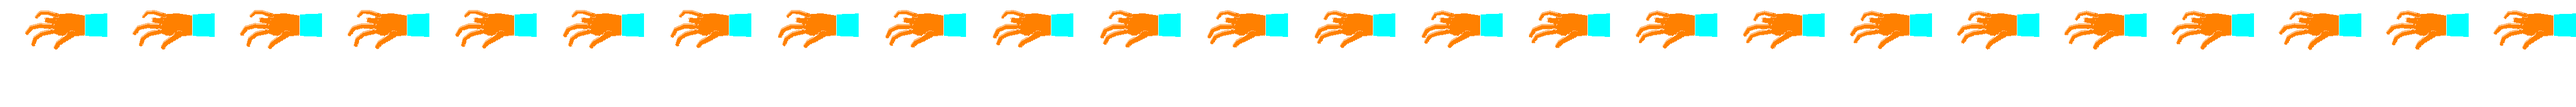
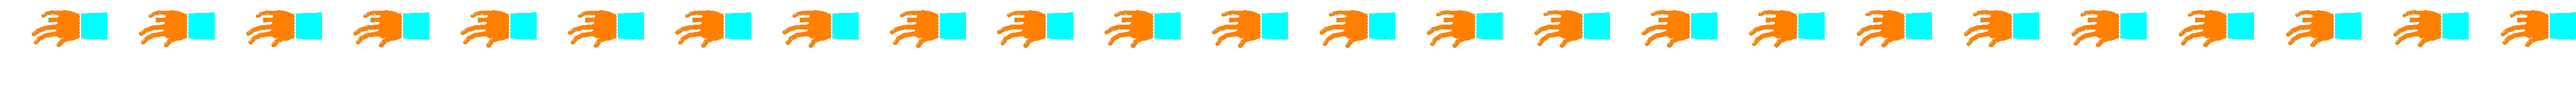
feat(kader): el görseli taslak 3: insan oranlı parmaklar (boğum, kıvrım, tırnak), kesik yüzük parmağı kendi şeridinde net güdük ve açık renk kesit; 3. bölüm kesitleri, başlık ve kart görseli

Changed region(s): [[0.0, 0.09, 1.0, 0.45]]

diff --git a/public/okul-projeleri/kader/index.html b/public/okul-projeleri/kader/index.html
@@ -17,7 +17,7 @@
 <meta name="theme-color" content="#000080">
 <link rel="icon" href="/okul-projeleri/kader/varliklar/el-sprite.png">
 <link rel="preload" href="/okul-projeleri/kader/varliklar/kader-cpc.woff2" as="font" type="font/woff2" crossorigin>
-<link rel="stylesheet" href="/okul-projeleri/kader/varliklar/kader.css?v=2">
+<link rel="stylesheet" href="/okul-projeleri/kader/varliklar/kader.css?v=3">
 </head>
 <body>
 <header class="ust">
@@ -221,7 +221,7 @@
 </section>
 </main>
 
-<script>window.KADER_EL = {"n": 24, "w": 200, "h": 200, "kareler": [{"bas": [104.42, 92.48], "isaret": [62.11, 86.19], "orta": [50.66, 65.13], "serce": [68.37, 34.21]}, {"bas": [104.09, 92.13], "isaret": [62.62, 86.77], "orta": [50.99, 65.76], "serce": [68.22, 33.42]}, {"bas": [103.68, 91.68], "isaret": [62.95, 87.18], "orta": [51.39, 66.55], "serce": [68.13, 32.77]}, {"bas": [103.25, 91.17], "isaret": [63.06, 87.39], "orta": [51.85, 67.45], "serce": [68.1, 32.32]}, {"bas": [102.81, 90.62], "isaret": [62.96, 87.39], "orta": [52.35, 68.39], "serce": [68.12, 32.09]}, {"bas": [102.39, 90.07], "isaret": [62.65, 87.18], "orta": [52.84, 69.31], "serce": [68.19, 32.11]}, {"bas": [102.02, 89.56], "isaret": [62.15, 86.76], "orta": [53.3, 70.15], "serce": [68.3, 32.37]}, {"bas": [101.73, 89.14], "isaret": [61.51, 86.15], "orta": [53.68, 70.86], "serce": [68.46, 32.85]}, {"bas": [101.52, 88.83], "isaret": [60.78, 85.38], "orta": [53.95, 71.39], "serce": [68.66, 33.52]}, {"bas": [101.41, 88.65], "isaret": [60.03, 84.5], "orta": [54.08, 71.72], "serce": [68.89, 34.32]}, {"bas": [101.4, 88.63], "isaret": [59.3, 83.56], "orta": [54.05, 71.82], "serce": [69.16, 35.2]}, {"bas": [101.5, 88.76], "isaret": [58.64, 82.64], "orta": [53.88, 71.69], "serce": [69.45, 36.09]}, {"bas": [101.69, 89.03], "isaret": [58.1, 81.8], "orta": [53.57, 71.33], "serce": [69.73, 36.94]}, {"bas": [101.98, 89.42], "isaret": [57.7, 81.11], "orta": [53.16, 70.77], "serce": [69.98, 37.69]}, {"bas": [102.34, 89.9], "isaret": [57.46, 80.63], "orta": [52.68, 70.02], "serce": [70.17, 38.29]}, {"bas": [102.76, 90.43], "isaret": [57.37, 80.4], "orta": [52.17, 69.15], "serce": [70.27, 38.72]}, {"bas": [103.21, 90.97], "isaret": [57.45, 80.43], "orta": [51.67, 68.2], "serce": [70.28, 38.93]}, {"bas": [103.65, 91.5], "isaret": [57.69, 80.72], "orta": [51.22, 67.25], "serce": [70.2, 38.93]}, {"bas": [104.06, 91.97], "isaret": [58.09, 81.25], "orta": [50.84, 66.35], "serce": [70.02, 38.71]}, {"bas": [104.4, 92.35], "isaret": [58.62, 81.96], "orta": [50.55, 65.59], "serce": [69.77, 38.27]}, {"bas": [104.64, 92.63], "isaret": [59.26, 82.8], "orta": [50.36, 65.01], "serce": [69.47, 37.65]}, {"bas": [104.77, 92.79], "isaret": [59.99, 83.7], "orta": [50.28, 64.65], "serce": [69.15, 36.88]}, {"bas": [104.78, 92.82], "isaret": [60.74, 84.61], "orta": [50.31, 64.56], "serce": [68.85, 36.01]}, {"bas": [104.66, 92.71], "isaret": [61.47, 85.45], "orta": [50.44, 64.72], "serce": [68.58, 35.1]}]};</script>
-<script src="/okul-projeleri/kader/varliklar/kader.js?v=2" defer></script>
+<script>window.KADER_EL = {"n": 24, "w": 200, "h": 200, "kareler": [{"bas": [107.41, 86.39], "isaret": [64.8, 81.65], "orta": [60.71, 65.57], "serce": [78.16, 30.82]}, {"bas": [107.6, 86.58], "isaret": [64.75, 81.41], "orta": [60.45, 65.06], "serce": [78.2, 31.11]}, {"bas": [107.82, 86.81], "isaret": [64.78, 81.3], "orta": [60.18, 64.48], "serce": [78.2, 31.29]}, {"bas": [108.06, 87.06], "isaret": [64.9, 81.31], "orta": [59.93, 63.88], "serce": [78.16, 31.36]}, {"bas": [108.31, 87.33], "isaret": [65.1, 81.46], "orta": [59.72, 63.28], "serce": [78.08, 31.31]}, {"bas": [108.54, 87.58], "isaret": [65.36, 81.72], "orta": [59.56, 62.73], "serce": [77.97, 31.14]}, {"bas": [108.75, 87.81], "isaret": [65.67, 82.08], "orta": [59.45, 62.28], "serce": [77.84, 30.87]}, {"bas": [108.92, 88.01], "isaret": [66.02, 82.52], "orta": [59.4, 61.95], "serce": [77.71, 30.5]}, {"bas": [109.03, 88.15], "isaret": [66.37, 82.99], "orta": [59.41, 61.77], "serce": [77.57, 30.08]}, {"bas": [109.07, 88.23], "isaret": [66.7, 83.47], "orta": [59.48, 61.74], "serce": [77.45, 29.61]}, {"bas": [109.05, 88.24], "isaret": [67.0, 83.94], "orta": [59.6, 61.88], "serce": [77.35, 29.15]}, {"bas": [108.96, 88.19], "isaret": [67.23, 84.35], "orta": [59.78, 62.17], "serce": [77.27, 28.71]}, {"bas": [108.81, 88.07], "isaret": [67.39, 84.68], "orta": [60.0, 62.58], "serce": [77.22, 28.34]}, {"bas": [108.62, 87.9], "isaret": [67.45, 84.92], "orta": [60.25, 63.09], "serce": [77.2, 28.05]}, {"bas": [108.39, 87.68], "isaret": [67.41, 85.05], "orta": [60.51, 63.66], "serce": [77.21, 27.87]}, {"bas": [108.14, 87.42], "isaret": [67.28, 85.05], "orta": [60.77, 64.26], "serce": [77.25, 27.8]}, {"bas": [107.89, 87.15], "isaret": [67.07, 84.92], "orta": [61.0, 64.84], "serce": [77.31, 27.86]}, {"bas": [107.67, 86.89], "isaret": [66.78, 84.68], "orta": [61.2, 65.37], "serce": [77.39, 28.04]}, {"bas": [107.47, 86.64], "isaret": [66.45, 84.33], "orta": [61.33, 65.81], "serce": [77.5, 28.32]}, {"bas": [107.32, 86.44], "isaret": [66.1, 83.91], "orta": [61.4, 66.13], "serce": [77.62, 28.69]}, {"bas": [107.22, 86.29], "isaret": [65.74, 83.42], "orta": [61.4, 66.32], "serce": [77.74, 29.12]}, {"bas": [107.18, 86.21], "isaret": [65.42, 82.92], "orta": [61.32, 66.35], "serce": [77.87, 29.57]}, {"bas": [107.2, 86.2], "isaret": [65.14, 82.43], "orta": [61.17, 66.23], "serce": [77.99, 30.03]}, {"bas": [107.28, 86.26], "isaret": [64.93, 82.0], "orta": [60.96, 65.96], "serce": [78.08, 30.46]}]};</script>
+<script src="/okul-projeleri/kader/varliklar/kader.js?v=3" defer></script>
 </body>
 </html>

diff --git a/public/okul-projeleri/kader/varliklar/kader.css b/public/okul-projeleri/kader/varliklar/kader.css
@@ -104,13 +104,13 @@ canvas.sahne { display: block; position: absolute; right: 0; top: 50%; transform
   background-size: calc(320px * var(--k)) calc(200px * var(--k));
   image-rendering: pixelated; border: 2px solid var(--camgobegi);
 }
-.kesit.parmak .resim { background-position: calc(-180px * var(--k)) calc(-14px * var(--k)); }
-.kesit.ip .resim { background-position: calc(-170px * var(--k)) calc(-96px * var(--k)); }
+.kesit.parmak .resim { background-position: calc(-189px * var(--k)) calc(-9px * var(--k)); }
+.kesit.ip .resim { background-position: calc(-174px * var(--k)) calc(-92px * var(--k)); }
 .kesit .isaret {
   position: absolute; border: 2px solid var(--turuncu); animation: imlec 0.8s steps(1) infinite;
 }
-.kesit.parmak .isaret { left: calc(20 * var(--k) * 1px); top: calc(17 * var(--k) * 1px); width: calc(15 * var(--k) * 1px); height: calc(14 * var(--k) * 1px); }
-.kesit.ip .isaret { left: calc(30 * var(--k) * 1px); top: calc(4 * var(--k) * 1px); width: calc(12 * var(--k) * 1px); height: calc(48 * var(--k) * 1px); border-style: dashed; }
+.kesit.parmak .isaret { left: calc(16 * var(--k) * 1px); top: calc(22 * var(--k) * 1px); width: calc(19 * var(--k) * 1px); height: calc(14 * var(--k) * 1px); }
+.kesit.ip .isaret { left: calc(31 * var(--k) * 1px); top: calc(4 * var(--k) * 1px); width: calc(14 * var(--k) * 1px); height: calc(48 * var(--k) * 1px); border-style: dashed; }
 .ekran:not(.aktif) .kesit .isaret { animation: none; }
 .kesit p { margin-top: 10px; color: var(--camgobegi); }
 #ipler .metin { font-size: calc(var(--u) * 1.5); }
